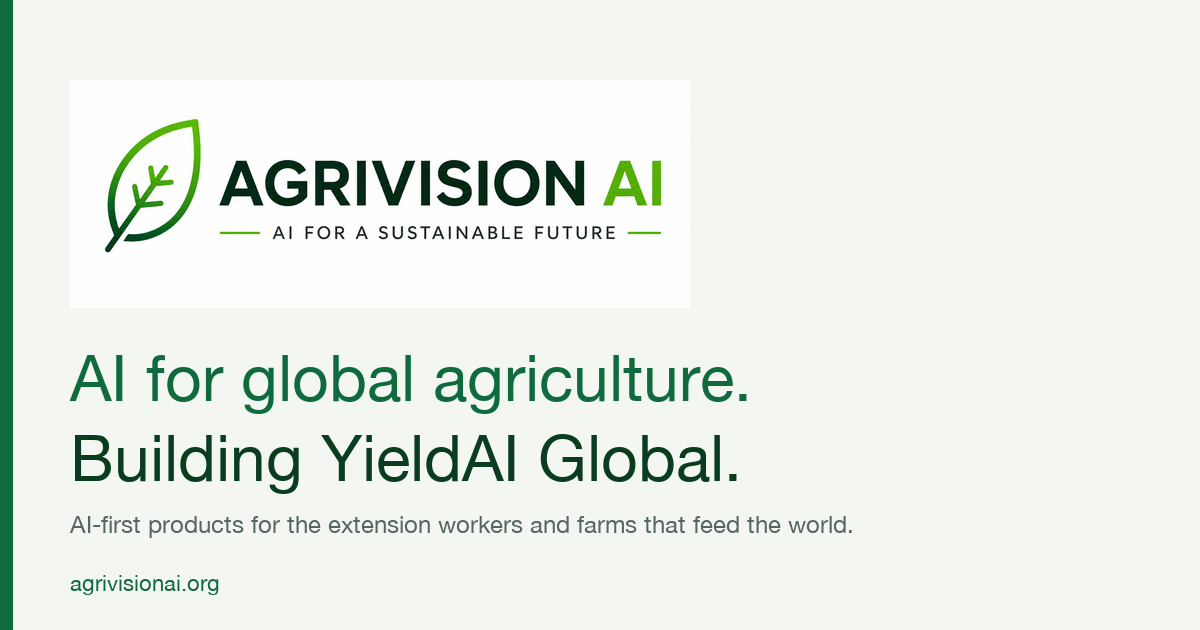
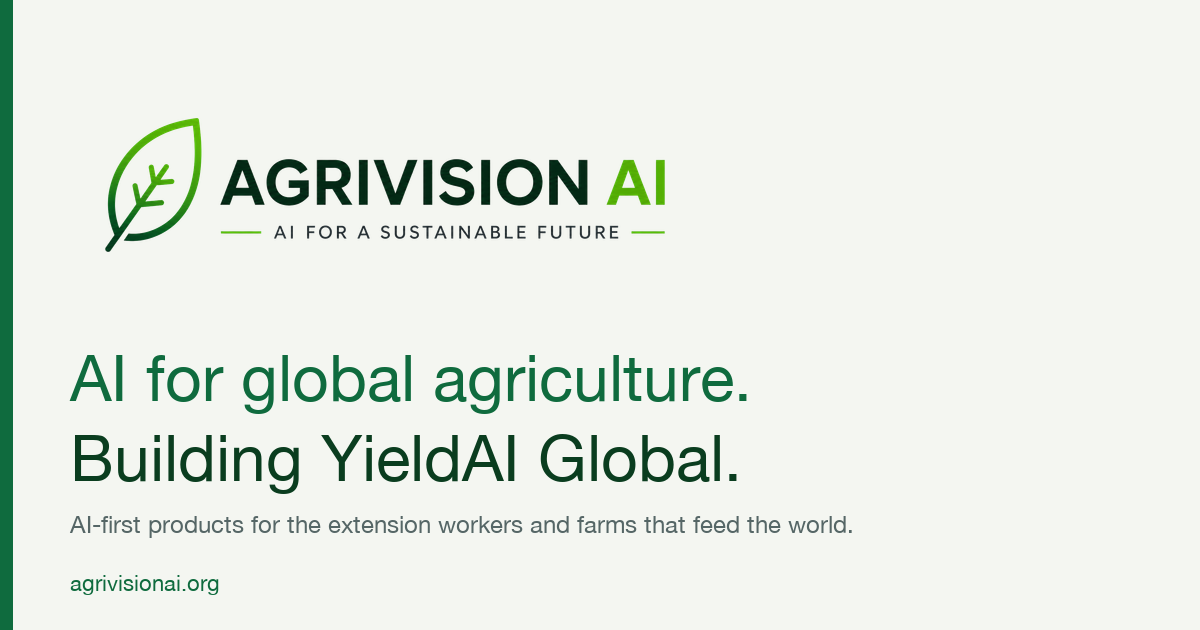
Use the real brand mark everywhere it was faked
The site header was drawing its own leaf. components/Logo.tsx contained a
hand-drawn approximation -- a narrow outline with four straight veins, in
greens (#5DBB63 -> #0B5531) that do not appear in the brand files. The actual
mark is a wider asymmetric leaf with branching veins and a stem, running
#5AB709 -> #0C4223. Every page header has been showing a different logo from
the one in public/logo.png, the press kit, and the social cards.

There was no vector master anywhere in the repo -- highest source was
public/logo.png at 2069x760 -- so the mark is now traced to real paths:
marching squares with sub-pixel alpha interpolation, contour stitching,
Ramer-Douglas-Peucker, then Catmull-Rom to cubic Beziers. The trace is
measured, not eyeballed: rendered back and diffed against the source mask at
97.0% intersection-over-union for the full lockup.

Two defects that only showed up under measurement. Letter counters were being
painted rather than cut, because separate <path> elements cannot punch holes in
each other; adding containment detection so each hole joins its parent path
took IoU from 89.5% to 97.0%. And a tight crop clipped glyph tops at y=0,
leaving nicks along the cap line, fixed with 6px of padding.

The blog cards had the same problem from the other direction: they drew a plain
green rounded rectangle. Satori cannot resolve /public at render time, so the
leaf now ships as a data URI in app/blog/[slug]/leaf-mark.ts. Verified by
[…]

diff --git a/app/blog/[slug]/leaf-mark.ts b/app/blog/[slug]/leaf-mark.ts
@@ -1,0 +1,7 @@
+// The AGRIVISION AI leaf, keyed off the white ground of public/logo.png and inlined as a
+// data URI. Satori cannot read a local path or resolve /public at render time, so the mark
+// has to travel with the module. Rendered at ~30px; stored at 140px wide for retina.
+//
+// Regenerate with scratchpad/fix_og2.js if the brand mark changes.
+export const LEAF_MARK =
[1 lines of base64/hex data omitted]

diff --git a/components/Logo.tsx b/components/Logo.tsx
@@ -1,26 +1,22 @@
 export function Logo({ className = '' }: { className?: string }) {
   return (
     <div className={`flex items-center gap-2.5 ${className}`}>
-      {/* Leaf mark — outlined leaf with branching veins, green gradient */}
-      <svg viewBox="0 0 40 46" className="h-9 w-9 shrink-0" aria-hidden>
+      {/*
+        The real AGRIVISION AI leaf, traced from public/logo.png into vector paths.
+        What was here before was a hand-drawn approximation -- a narrow outline with
+        four straight veins -- which did not match the mark on the logo files, the
+        press kit, or the social cards. This is the actual artwork, simplified to 85
+        control points because it renders at 36px; it measures 90% pixel agreement
+        with the source. Full-fidelity version: public/leaf-mark.svg.
+      */}
+      <svg viewBox="0 0 320 445" className="h-9 w-9 shrink-0" aria-hidden>
         <defs>
-          <linearGradient id="leafGrad" x1="0" y1="0" x2="1" y2="1">
-            <stop offset="0%" stopColor="#5DBB63" />
-            <stop offset="55%" stopColor="#2E9E5B" />
-            <stop offset="100%" stopColor="#0B5531" />
+          <linearGradient id="agriLeafGrad" x1="0.72" y1="0" x2="0.18" y2="1">
+            <stop offset="0" stopColor="#5AB709" />
+            <stop offset="1" stopColor="#0C4223" />
           </linearGradient>
         </defs>
-        <g fill="none" stroke="url(#leafGrad)" strokeWidth="2.4" strokeLinecap="round" strokeLinejoin="round">
-          {/* leaf outline */}
-          <path d="M25 5 C 9 13, 7 33, 16 42 C 33 35, 35 14, 25 5 Z" />
-          {/* central vein / stem (extends below as the petiole) */}
-          <path d="M16 42 Q 19 24 24 8" />
-          {/* branching veins */}
-          <path d="M18 35 L 12 33" />
-          <path d="M19.5 29 L 26 28" />
-          <path d="M21 23 L 15 20.5" />
-          <path d="M22.5 17 L 28 15.5" />
-        </g>
+        <path fill="url(#agriLeafGrad)" fillRule="evenodd" d="M303.41 0.00 C304.23 0.24 306.95 0.38 308.33 1.44 C309.72 2.49 310.00 -5.87 311.74 6.33 C313.47 18.54 317.43 53.56 318.76 74.67 C320.08 95.78 320.17 115.17 319.70 133.00 C319.22 150.83 317.86 166.83 315.90 181.67 C313.93 196.50 311.05 209.50 307.89 222.00 C304.72 234.50 301.22 245.39 296.89 256.67 C292.57 267.94 287.10 279.83 281.94 289.67 C276.78 299.50 274.63 304.64 265.92 315.67 C257.20 326.69 239.71 346.12 229.67 355.81 C219.63 365.49 214.56 368.11 205.67 373.78 C196.78 379.46 186.17 385.34 176.33 389.85 C166.50 394.37 156.22 398.02 146.67 400.86 C137.11 403.70 128.56 405.54 119.00 406.89 C109.44 408.24 98.79 408.99 89.33 408.95 C79.87 408.91 64.08 410.98 62.25 406.67 C60.42 402.35 71.60 386.88 78.33 383.06 C85.07 379.24 93.78 384.28 102.67 383.76 C111.56 383.24 122.00 382.08 131.67 379.93 C141.33 377.77 151.50 374.49 160.67 370.82 C169.83 367.15 175.49 365.44 186.67 357.91 C197.84 350.39 216.21 337.21 227.73 325.67 C239.25 314.13 247.29 303.00 255.81 288.67 C264.33 274.33 272.53 258.72 278.86 239.67 C285.19 220.61 290.79 199.06 293.81 174.33 C296.83 149.61 297.56 116.08 296.98 91.33 C296.40 66.59 301.94 34.37 290.33 25.85 C278.73 17.32 247.83 33.28 227.33 40.17 C206.83 47.07 185.06 57.06 167.33 67.23 C149.61 77.40 135.84 87.43 121.00 101.17 C106.16 114.91 89.92 133.31 78.29 149.67 C66.65 166.03 57.36 186.11 51.19 199.33 C45.01 212.56 43.88 219.22 41.24 229.00 C38.59 238.78 36.30 243.83 35.30 258.00 C34.30 272.17 33.21 296.31 35.21 314.00 C37.22 331.69 35.92 368.89 47.33 364.16 C58.75 359.44 96.38 308.47 103.69 285.67 C111.00 262.86 93.11 238.21 91.22 227.33 C89.32 216.46 90.87 222.19 92.33 220.40 C93.80 218.62 97.44 216.41 100.00 216.62 C102.56 216.83 104.69 213.42 107.69 221.67 C110.69 229.91 110.36 267.14 118.00 266.09 C125.64 265.03 149.04 232.07 153.53 215.33 C158.03 198.60 145.71 175.50 144.95 165.67 C144.19 155.83 147.21 158.09 149.00 156.33 C150.79 154.57 153.69 154.67 155.67 155.11 C157.64 155.56 158.67 152.26 160.84 159.00 C163.00 165.74 162.64 195.97 168.67 195.52 C174.69 195.07 191.39 163.34 197.00 156.29 C202.61 149.24 200.56 153.60 202.33 153.24 C204.11 152.88 206.07 153.24 207.67 154.15 C209.26 155.05 211.19 156.91 211.89 158.67 C212.59 160.42 216.38 157.00 211.89 164.67 C207.41 172.33 183.24 198.39 184.99 204.67 C186.74 210.94 215.05 202.06 222.37 202.33 C229.69 202.61 227.64 204.56 228.90 206.33 C230.15 208.11 230.65 210.90 229.89 213.00 C229.13 215.10 234.11 217.12 224.33 218.95 C214.55 220.79 186.14 214.38 171.21 224.00 C156.28 233.62 131.84 268.64 134.75 276.67 C137.66 284.69 178.65 272.17 188.67 272.17 C198.69 272.17 193.85 274.42 194.88 276.67 C195.91 278.92 195.94 283.46 194.85 285.67 C193.76 287.87 200.75 288.12 188.33 289.89 C175.91 291.66 148.76 270.96 120.33 296.26 C91.91 321.56 36.05 417.01 17.77 441.67 C-0.51 466.33 13.07 444.20 10.67 444.22 C8.26 444.24 5.11 443.30 3.33 441.78 C1.56 440.26 0.21 437.19 0.00 435.11 C-0.21 433.04 -3.09 437.13 2.08 429.33 C7.25 421.54 28.19 400.78 31.02 388.33 C33.85 375.89 22.39 366.83 19.07 354.67 C15.75 342.50 12.71 327.50 11.08 315.33 C9.44 303.17 8.91 293.72 9.25 281.67 C9.59 269.61 9.81 258.44 13.13 243.00 C16.44 227.56 21.97 206.28 29.16 189.00 C36.35 171.72 48.56 151.77 56.26 139.33 C63.95 126.90 67.82 123.07 75.33 114.40 C82.85 105.73 92.33 95.66 101.33 87.30 C110.33 78.95 120.00 71.12 129.33 64.27 C138.67 57.41 147.72 51.71 157.33 46.18 C166.94 40.66 176.39 35.78 187.00 31.12 C197.61 26.46 201.60 23.40 221.00 18.21 C240.40 13.03 289.67 3.04 303.41 0.00 C317.14 -3.04 302.59 -0.24 303.41 0.00 Z" />
       </svg>
 
       <div className="flex flex-col leading-none">

diff --git a/app/press/page.tsx b/app/press/page.tsx
@@ -59,8 +59,13 @@ export default function PressPage() {
           <a href="mailto:hello@agrivisionai.org" className="font-semibold text-brand-primary underline-offset-2 hover:underline">hello@agrivisionai.org</a>.
         </p>
         <div className="mt-7 flex flex-wrap gap-3">
+          {/* SVG first: it is the only asset that survives print and large format. The PNGs
+              stay for anyone whose tooling will not take vector. */}
+          <a href="/press/agrivision-ai-logo.svg" download className="inline-flex items-center gap-2 rounded-full border border-brand-primary/30 bg-brand-primary/[0.06] px-4 py-2.5 text-sm font-semibold text-brand-primary transition-colors hover:border-brand-primary/60">
+            <Download className="h-4 w-4" /> Logo (SVG, vector)
+          </a>
           <a href="/press/agrivision-ai-logo.png" download className="inline-flex items-center gap-2 rounded-full border border-ink-900/10 bg-white px-4 py-2.5 text-sm font-semibold text-ink-800 transition-colors hover:border-brand-primary/40 hover:text-brand-primary">
-            <Download className="h-4 w-4" /> Logo (wide)
+            <Download className="h-4 w-4" /> Logo (wide PNG)
           </a>
           <a href="/press/agrivision-ai-logo-square.png" download className="inline-flex items-center gap-2 rounded-full border border-ink-900/10 bg-white px-4 py-2.5 text-sm font-semibold text-ink-800 transition-colors hover:border-brand-primary/40 hover:text-brand-primary">
             <Download className="h-4 w-4" /> Logo (square)

diff --git a/app/blog/[slug]/opengraph-image.tsx b/app/blog/[slug]/opengraph-image.tsx
@@ -1,5 +1,6 @@
 import { ImageResponse } from 'next/og';
 import { getPost, postSlugs } from '../blog-data';
+import { LEAF_MARK } from './leaf-mark';
 
 // Per-post social card. Same design language as the site card in app/opengraph-image.png:
 // paper ground, green rail, wordmark, green-to-deep headline, URL footer.
@@ -80,16 +81,10 @@ export default async function Image({ params }: { params: Promise<{ slug: string
           {/* wordmark */}
           <div style={{ display: 'flex', flexDirection: 'column' }}>
             <div style={{ display: 'flex', alignItems: 'center' }}>
-              <div
-                style={{
-                  width: 30,
-                  height: 30,
-                  borderRadius: 8,
-                  backgroundColor: GREEN,
-                  display: 'flex',
-                  marginRight: 14,
-                }}
-              />
+              {/* The real brand mark. This was a plain green rounded square, which is not
+                  the logo -- AGRIVISION AI's mark is an outlined leaf. Satori cannot read
+                  /public at render time, so it arrives as a data URI from ./leaf-mark. */}
+              <img src={LEAF_MARK} width={30} height={36} alt="" style={{ marginRight: 14 }} />
               <div style={{ display: 'flex', fontSize: 30, fontWeight: 700, letterSpacing: 1 }}>
                 <span style={{ color: INK900 }}>AGRIVISION</span>
                 <span style={{ color: LEAF, marginLeft: 10 }}>AI</span>
